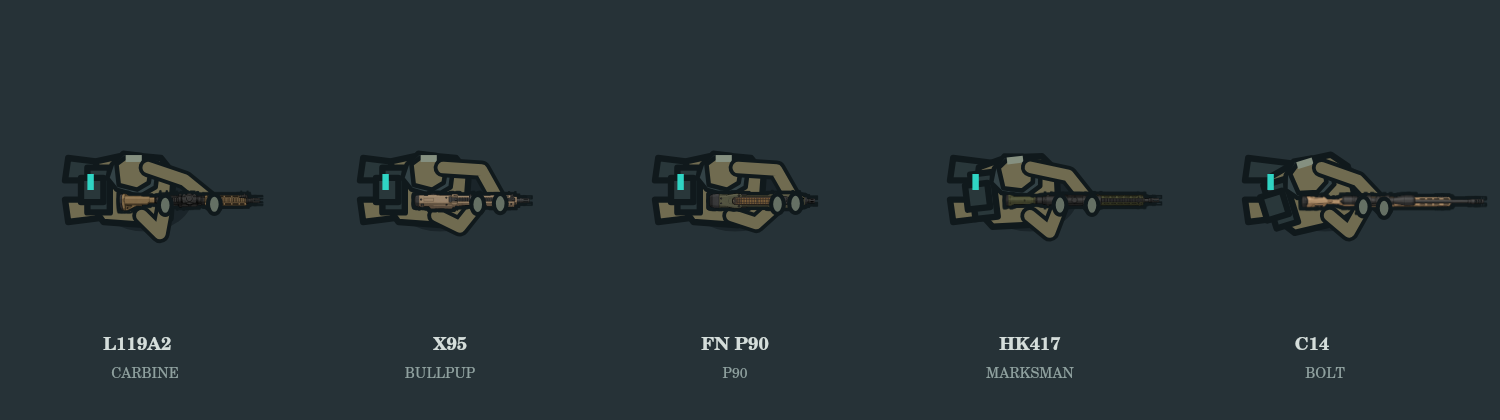
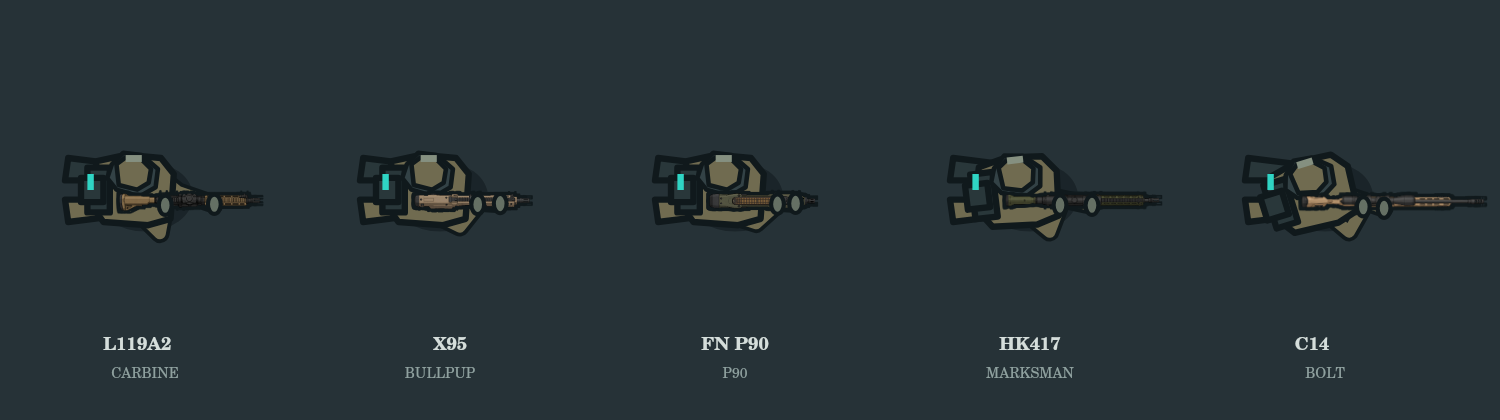
사용자 반려한 머리 위 팔 고리를 제거하고 외형 검수 실패를 기록
지지팔을 몸 안쪽으로 접고 위팔을 흉곽과 머리 뒤에 가립니다.
총기 중심선과 C14 접점은 보존하고 정적 검수 이미지를 갱신합니다.
이전 외형 품질 통과 판정을 철회하며 사용자 미술 승인 전 원화 제작을 보류합니다.
정적 계약·방향 렌더·타입 검사 통과. 브라우저 미실행.

diff --git a/artifacts/draft-order-player-generator/src/components/modularOperator.ts b/artifacts/draft-order-player-generator/src/components/modularOperator.ts
@@ -5,7 +5,7 @@ export type PartLoader = (file:string) => HTMLImageElement;
 type Point = {x:number;y:number};
 
 export const OPERATOR_LAYER_ORDER = [
-  'shadow', 'lower-body', 'torso', 'head-and-kit', 'arms', 'weapon', 'hands', 'team-mark',
+  'shadow', 'lower-body', 'arms', 'torso', 'head-and-kit', 'weapon', 'hands', 'team-mark',
 ] as const;
 
 export type WeaponPoseKind = 'carbine'|'smg'|'suppressed'|'bullpup'|'p90'|'marksman'|'bolt'|'pistol';
@@ -169,7 +169,6 @@ export function paintModularOperator(ctx:CanvasRenderingContext2D,unit:RealtimeU
   paintLowerBody(ctx,pose,time,reducedMotion,kit.color);
   if(down){ctx.save();ctx.rotate(-.18);ctx.scale(1.15,.72);paintTorso(ctx,kit.color);paintHeadAndKit(ctx,kit.color,kit.pack,kit.tool);ctx.restore();ctx.restore();return true;}
   const mount=pose.weapon!;
-  ctx.save();ctx.rotate(mount.torsoYaw);paintTorso(ctx,kit.color);paintHeadAndKit(ctx,kit.color,kit.pack,kit.tool);ctx.restore();
   const throwProgress=reducedMotion?.6:Math.min(1,throwAge/.45);
   const gunStowed=installing||throwing,lower=installing?1:throwing?1-throwProgress:0;
   const offset={x:-kick-7*lower,y:9*lower};
@@ -180,9 +179,12 @@ export function paintModularOperator(ctx:CanvasRenderingContext2D,unit:RealtimeU
   if(reloading){const reach=Math.sin(Math.PI*Math.min(1,reloadAge/(reloadAge+unit.reloadRemaining!)));supportTarget=displaced(mix(mount.supportHand,mount.magazine,reach));}
   if(installing){triggerTarget={x:8,y:5};supportTarget={x:9,y:-5};}
   const triggerArm=solveArm(mount.triggerShoulder,triggerTarget,8,9,1);
-  let supportArm=solveArm(mount.supportShoulder,supportTarget,12,12,-1);
+  let supportArm=solveArm(mount.supportShoulder,supportTarget,12,12,1);
   if(throwing){const thrownPose=throwArmPose(throwProgress);supportArm={shoulder:mount.supportShoulder,elbow:thrownPose.elbow,hand:thrownPose.hand};}
   strokeArm(ctx,supportArm,kit.color);strokeArm(ctx,triggerArm,kit.color);
+  // 탑뷰에서 아래로 내려간 위팔은 흉곽/어깨 아래에 가립니다.
+  // 손 접촉이 맞아도 팔 뿌리를 헬멧 위에 그리면 고리 모양의 기형이 됩니다.
+  ctx.save();ctx.rotate(mount.torsoYaw);paintTorso(ctx,kit.color);paintHeadAndKit(ctx,kit.color,kit.pack,kit.tool);ctx.restore();
 
   ctx.save();ctx.translate(mount.muzzle.x+offset.x,mount.muzzle.y+offset.y);
   const weaponDrawn=paintWeaponPart(ctx,unit.weaponName??'',asset);ctx.restore();

diff --git a/docs/operator-shouldering-current.md b/docs/operator-shouldering-current.md
@@ -1,5 +1,7 @@
 # 총기 중심선·견착 보정 — 2026-09-13
 
+> **사용자 반려 및 보정:** `def1592` 정적 시안은 팔이 머리 위에서 솟은 고리처럼 보여 사용자가 거부했다. 이전의 외형 품질 통과 판정은 철회한다. 수치 검사 통과와 자연스러운 인체 표현은 별개다. 후속 수정은 지지팔 굽힘을 몸 안쪽으로 돌리고, 팔→몸통→머리/군장→총→손 순서로 바꿔 위팔 뿌리를 흉곽과 어깨 아래에 가렸다. 총종별 접점·중심선·C14 회전은 보존했다. 수정 이미지를 다시 생성했지만 사용자 미술 승인은 아직 없다.
+
 작업 기준: `feat/modular-operator-renderer`, PR #15, 시작 커밋 `2a02c65`.
 목표는 총을 오른쪽 외곽에 얹은 인상을 제거하고 어깨·양손·총을 하나의 자세로 읽게 하는 것이다. 통짜 시트와 새 총기 원화는 만들지 않았다. 실제 브라우저는 실행하지 않았다.
 
@@ -26,7 +28,7 @@ PGW 검색 결과의 홈페이지는 실제 열기에서 무관한 내용이 나
 |---|---|---|---|
 | 중심선 | 작은 인물의 몸 앞에서 총열 방향이 돌출됨 | 경사 시점에서 총과 팔이 상체 앞에 모임 | 총열의 오른쪽 오프셋을 7.5에서 약 3.2~3.5로 줄임 |
 | 어깨 | 작은 프레임에서 포켓의 정밀 위치는 판독 불가 | 군장과 팔이 겹쳐 어깨 접점이 일부 가려짐 | 포켓을 명시적 좌표로 두고 개머리판 뒤끝과 일치 |
-| 팔꿈치 | 정확한 각도는 판독 불가 | 자세·투영별 비대칭 굽힘을 볼 수 있으나 실측 불가 | 좌우 팔꿈치를 서로 반대 바깥쪽으로 굽혀 받치는 공간을 형성 |
+| 팔꿈치 | 정확한 각도는 판독 불가 | 자세·투영별 비대칭 굽힘을 볼 수 있으나 실측 불가 | 초기 바깥 굽힘은 반려. 지지팔을 몸 안쪽으로 접고 위팔 뿌리를 몸통 뒤에 가림 |
 | 가림 | 헬멧·몸체의 큰 덩어리와 전방 총열이 먼저 읽힘 | 3D 깊이로 상체·팔·총이 부분적으로 가려짐 | 머리가 방아쇠손을 지우지 않게 머리/군장 후에 팔→총→손을 그림 |
 
 작은 스크린샷에서 팔꿈치 각도를 임의 측정해 고증 수치로 기록하지 않는다. Thunder Tier One의 경사 시점 비율을 수직 탑뷰에 그대로 복제하지 않는다.
@@ -36,8 +38,8 @@ PGW 검색 결과의 홈페이지는 실제 열기에서 무관한 내용이 나
 - `weaponMuzzleOffset`은 그대로 둔다. 시뮬레이션 발사 원점, 충돌, 성능 데이터는 변경하지 않았다.
 - `weaponMountPose`가 표시용 개머리판·총구·양손·어깨 포켓·몸통 회전을 계산한다. 일반 장총 뒤끝은 `(-8, 3.4)`이며 C14/지정사수는 회전된 포켓에 일치시킨다.
 - 총기 PNG와 균일 축척은 보존한다. 방아쇠손은 원본 gripPoint, 지지손은 총종별 접점에 고정한다. C14의 지지손은 기존 magazine/support 사이 22%, 지정사수는 55% 위치다.
-- 방아쇠팔 8+9, 지지팔 12+12는 탑뷰 투영용 고정 길이이다. 원화 인체 치수가 아니다. 팔꿈치가 총 아래로 눌려 보이던 굽힘 방향을 수정했다.
-- 레이어: 그림자 → 하체 → 몸통 → 머리/군장 → 팔 → 총 → 손 → 팀 표식. 머리 위치를 뒤/왼쪽으로 이동해 무기와 손을 덮지 않게 했다.
+- 방아쇠팔 8+9, 지지팔 12+12는 탑뷰 투영용 고정 길이이다. 원화 인체 치수가 아니다. 지지팔은 안쪽으로 접는다. 길이 고정만으로 자연스러운 자세가 보장되지는 않는다.
+- 레이어: 그림자 → 하체 → 팔 → 몸통 → 머리/군장 → 총 → 손 → 팀 표식. 아래로 내려간 위팔을 흉곽 뒤에 가려 팔이 헬멧에서 돋아나는 형태를 방지한다.
 - 반동은 총과 파지손에 같은 변위를 적용한다. 중계 총구 효과도 표시용 반동 좌표를 사용하고 시뮬레이션에 되돌려 주지 않는다.
 - PR 리뷰에서 지적된 장전 2.4초 상수를 실제 진행시간+남은시간으로 교체했다. 동작 축소 투척에서는 팔과 총이 같은 고정 진행률을 쓴다.
 
@@ -57,7 +59,7 @@ PGW 검색 결과의 홈페이지는 실제 열기에서 무관한 내용이 나
 
 정적 검수표: [64px/128px](../validation/operator-shouldering-64-128.png), [5개 확대 자세](../validation/modular-operator-five-weapon-poses.png), [좌표 기록](../validation/operator-shouldering.json).
 
-직접 확인한 범위: 64px에서 긴 C14·짧은 권총·불펍/P90의 큰 실루엣과 파지 배치, 128px에서 양손과 총의 겹침. 느슨하게 총 아래에 손 두 개를 나란히 놓던 형태를 제거했다. 자동 검사는 미술 승인이나 실물 고증의 대체물이 아니다. 비슷한 카빈의 세부 모델 식별, 최종 인체 파츠, 방패/포복 전용 파지는 미완료다.
+직접 확인한 범위는 축소 이미지 생성과 무기/손 접점이며, 최초 이미지의 인체 실루엣 검수는 실패했다. 사용자가 지적한 머리 위 팔 고리를 후속 수정으로 제거하고 같은 검수표를 갱신했다. 자동 검사는 미술 승인이나 실물 고증의 대체물이 아니다. 비슷한 카빈의 세부 모델 식별, 자연스러운 최종 인체 파츠, 방패/포복 전용 파지는 미완료다. 사용자 승인 전 원화 제작 단계로 넘어가지 않는다.
 
 ## 다음 채팅 시작점
 

diff --git a/docs/PROJECT_STATE.md b/docs/PROJECT_STATE.md
@@ -1,3 +1,5 @@
+> **외형 반려 후 수정:** 머리에서 팔이 솟는 시안은 사용자 반려. 지지팔을 안쪽으로 접고 위팔을 몸통/머리 뒤로 가리는 수정 적용. 이전 외형 품질 판정 철회, 사용자 미술 승인 대기. [상세](operator-shouldering-current.md)
+
 > **최신 견착 보정:** [총기 중심선·견착 보정](operator-shouldering-current.md). 몸 안쪽 총열·어깨 포켓 접촉·C14 몸통 회전·반동 양손 동기화. 표시 총구를 시뮬레이션과 분리. 20무기 160방향, 64/128 정적 이미지, 타입·빌드 확인. 브라우저 미실행, 최종 원화/미술 승인 별도.
 
 > **최신: [조립식 오퍼레이터 렌더링](operator-modular-current.md).** 사용자 결정으로 총기 포함 통짜 시트를 활성 중계에서 제외했다. 하체는 이동, 상체는 조준 방향을 따르며 총기별 개머리판·방아쇠손·지지손·탄창·총구 접점에 고정 길이 팔을 조립한다. C14는 리시버 가까이를 받치는 별도 자세다. 외형 모듈은 성능 데이터를 읽지 않는다. 현재 몸체 파츠는 구조 검증용이며 최종 원화는 미완료다.

diff --git a/docs/sprite-production-current.md b/docs/sprite-production-current.md
@@ -1,3 +1,5 @@
+> **외형 반려 후 수정:** 머리에서 팔이 솟는 시안은 사용자 반려. 지지팔을 안쪽으로 접고 위팔을 몸통/머리 뒤로 가리는 수정 적용. 이전 외형 품질 판정 철회, 사용자 미술 승인 대기. [상세](operator-shouldering-current.md)
+
 > **최신 견착 보정:** [총기 중심선·견착 보정](operator-shouldering-current.md). 몸 안쪽 총열·어깨 포켓 접촉·C14 몸통 회전·반동 양손 동기화. 표시 총구를 시뮬레이션과 분리. 20무기 160방향, 64/128 정적 이미지, 타입·빌드 확인. 브라우저 미실행, 최종 원화/미술 승인 별도.
 
 > **최신: [조립식 오퍼레이터 렌더링](operator-modular-current.md).** 총기 포함 통짜 시트 방향은 사용자 피드백으로 폐기됐다. 기존 시트는 이력으로 보존하지만 활성 중계 경로에서 사용하지 않는다. 하체·상체·팔·총기·손·군장을 분리하고 총기 접점에 양손을 조립하는 구조가 현재 기준이다.

diff --git a/docs/operator-modular-current.md b/docs/operator-modular-current.md
@@ -1,3 +1,5 @@
+> **외형 반려 후 수정:** 머리에서 팔이 솟는 시안은 사용자 반려. 지지팔을 안쪽으로 접고 위팔을 몸통/머리 뒤로 가리는 수정 적용. 이전 외형 품질 판정 철회, 사용자 미술 승인 대기. [상세](operator-shouldering-current.md)
+
 > 최신: [총기 중심선·견착 보정](operator-shouldering-current.md). 아래 최초 구현의 레이어와 공유 총구 설명은 다음 변경으로 대체합니다.
 
 # 조립식 오퍼레이터 렌더링 — 2026-09-13
